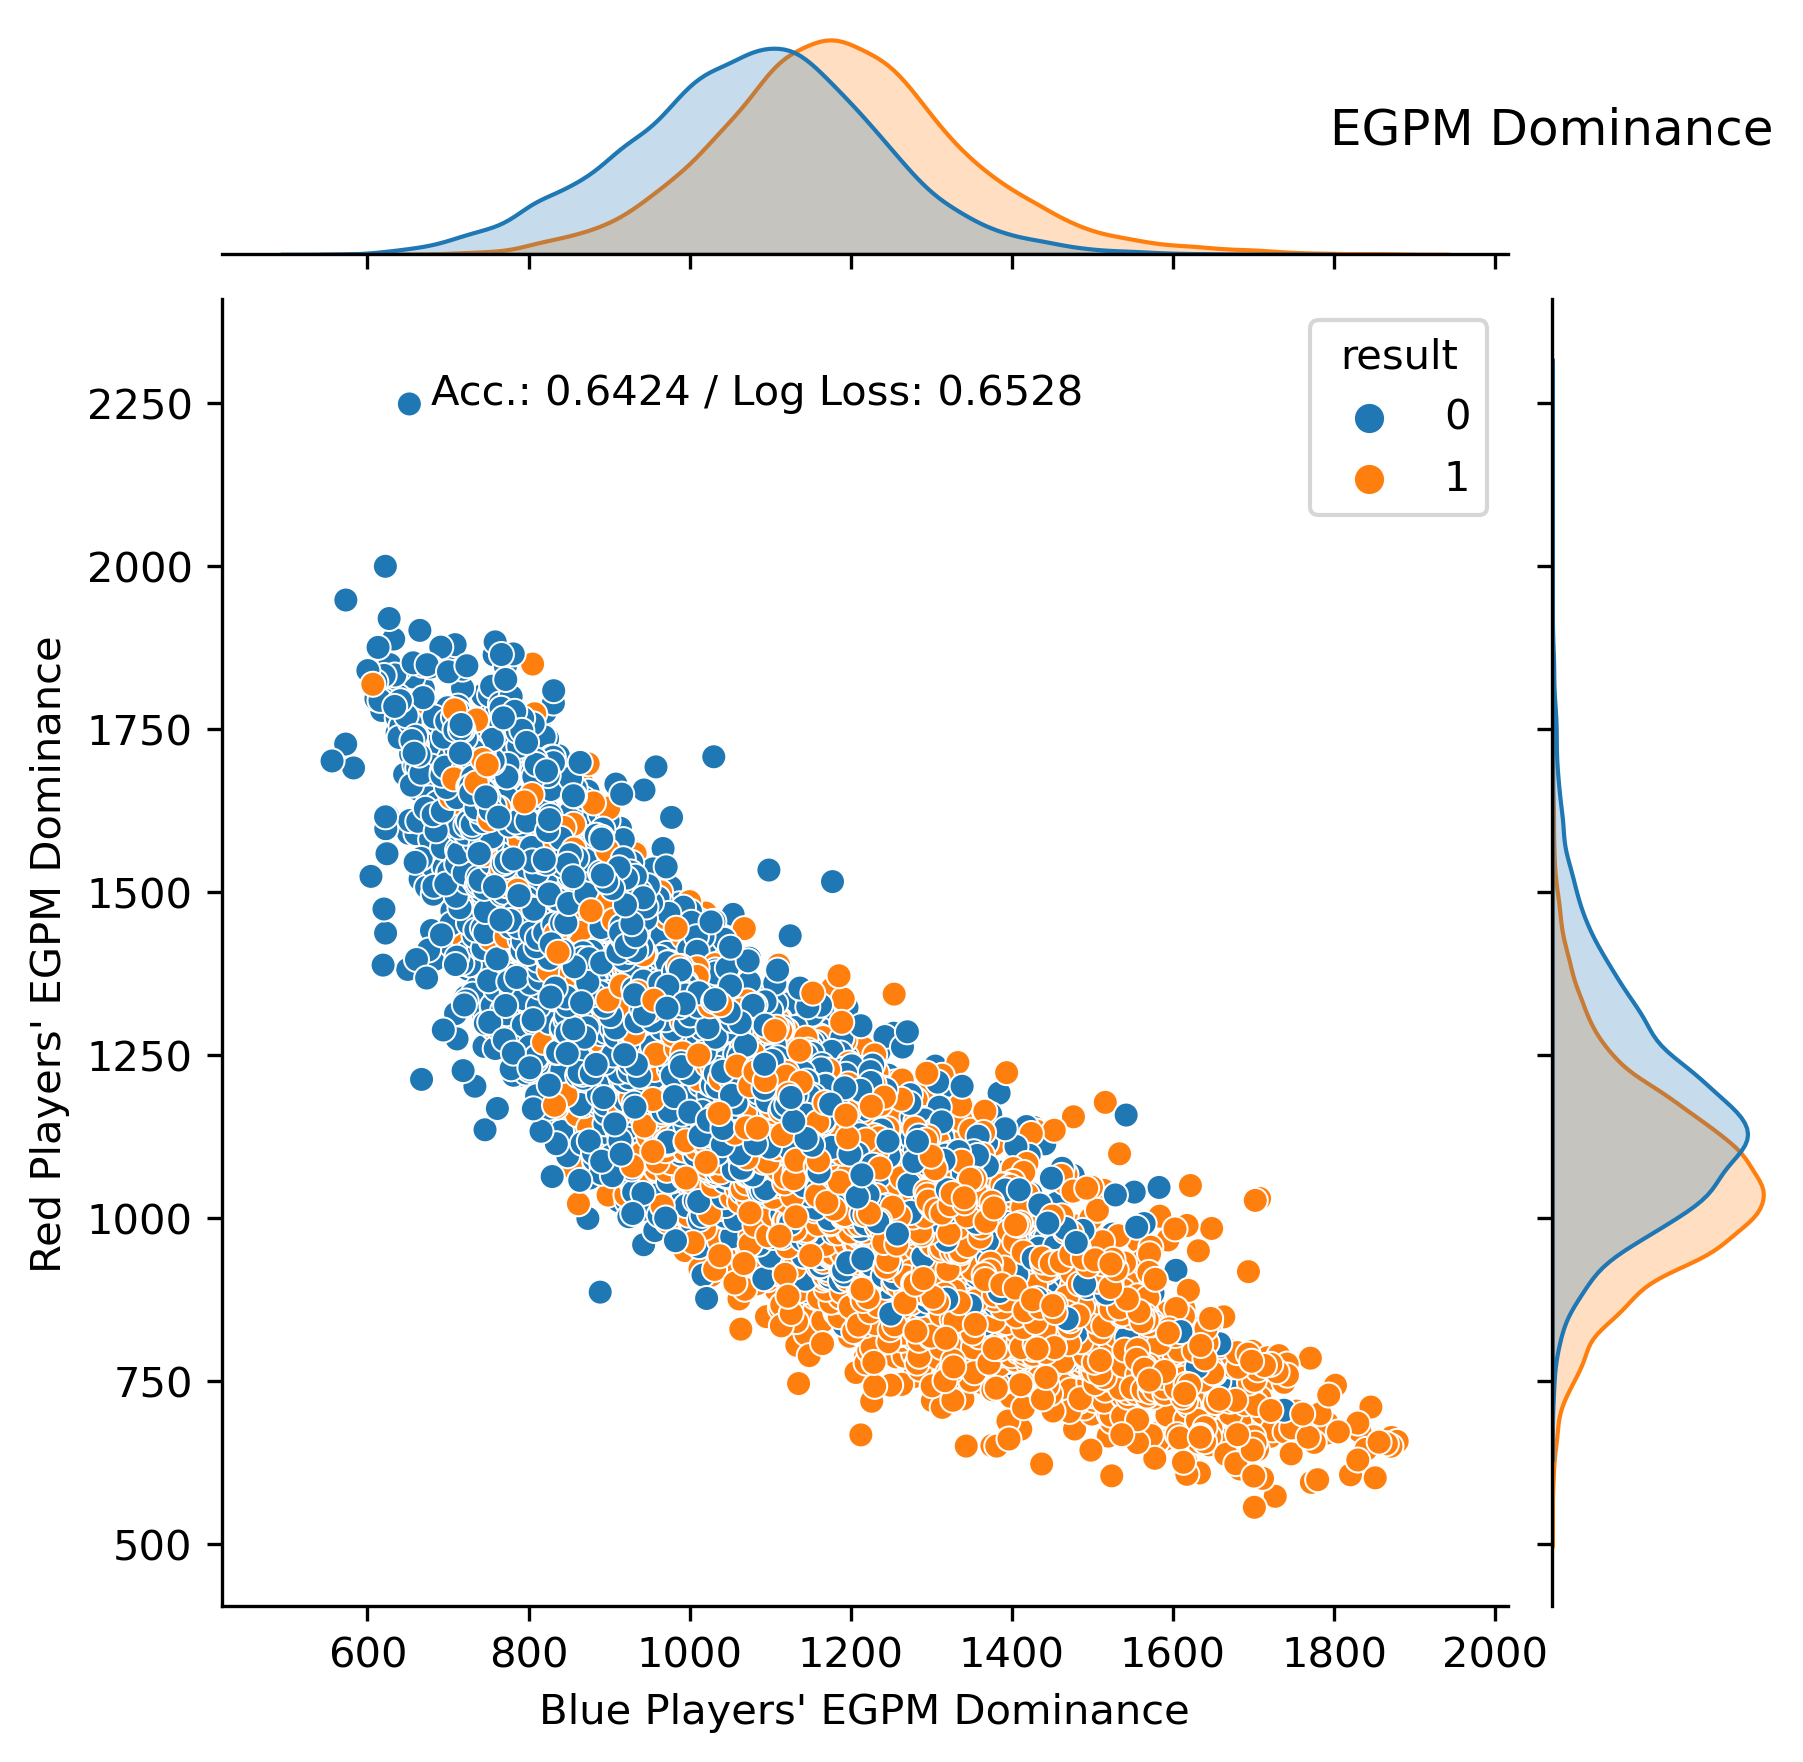
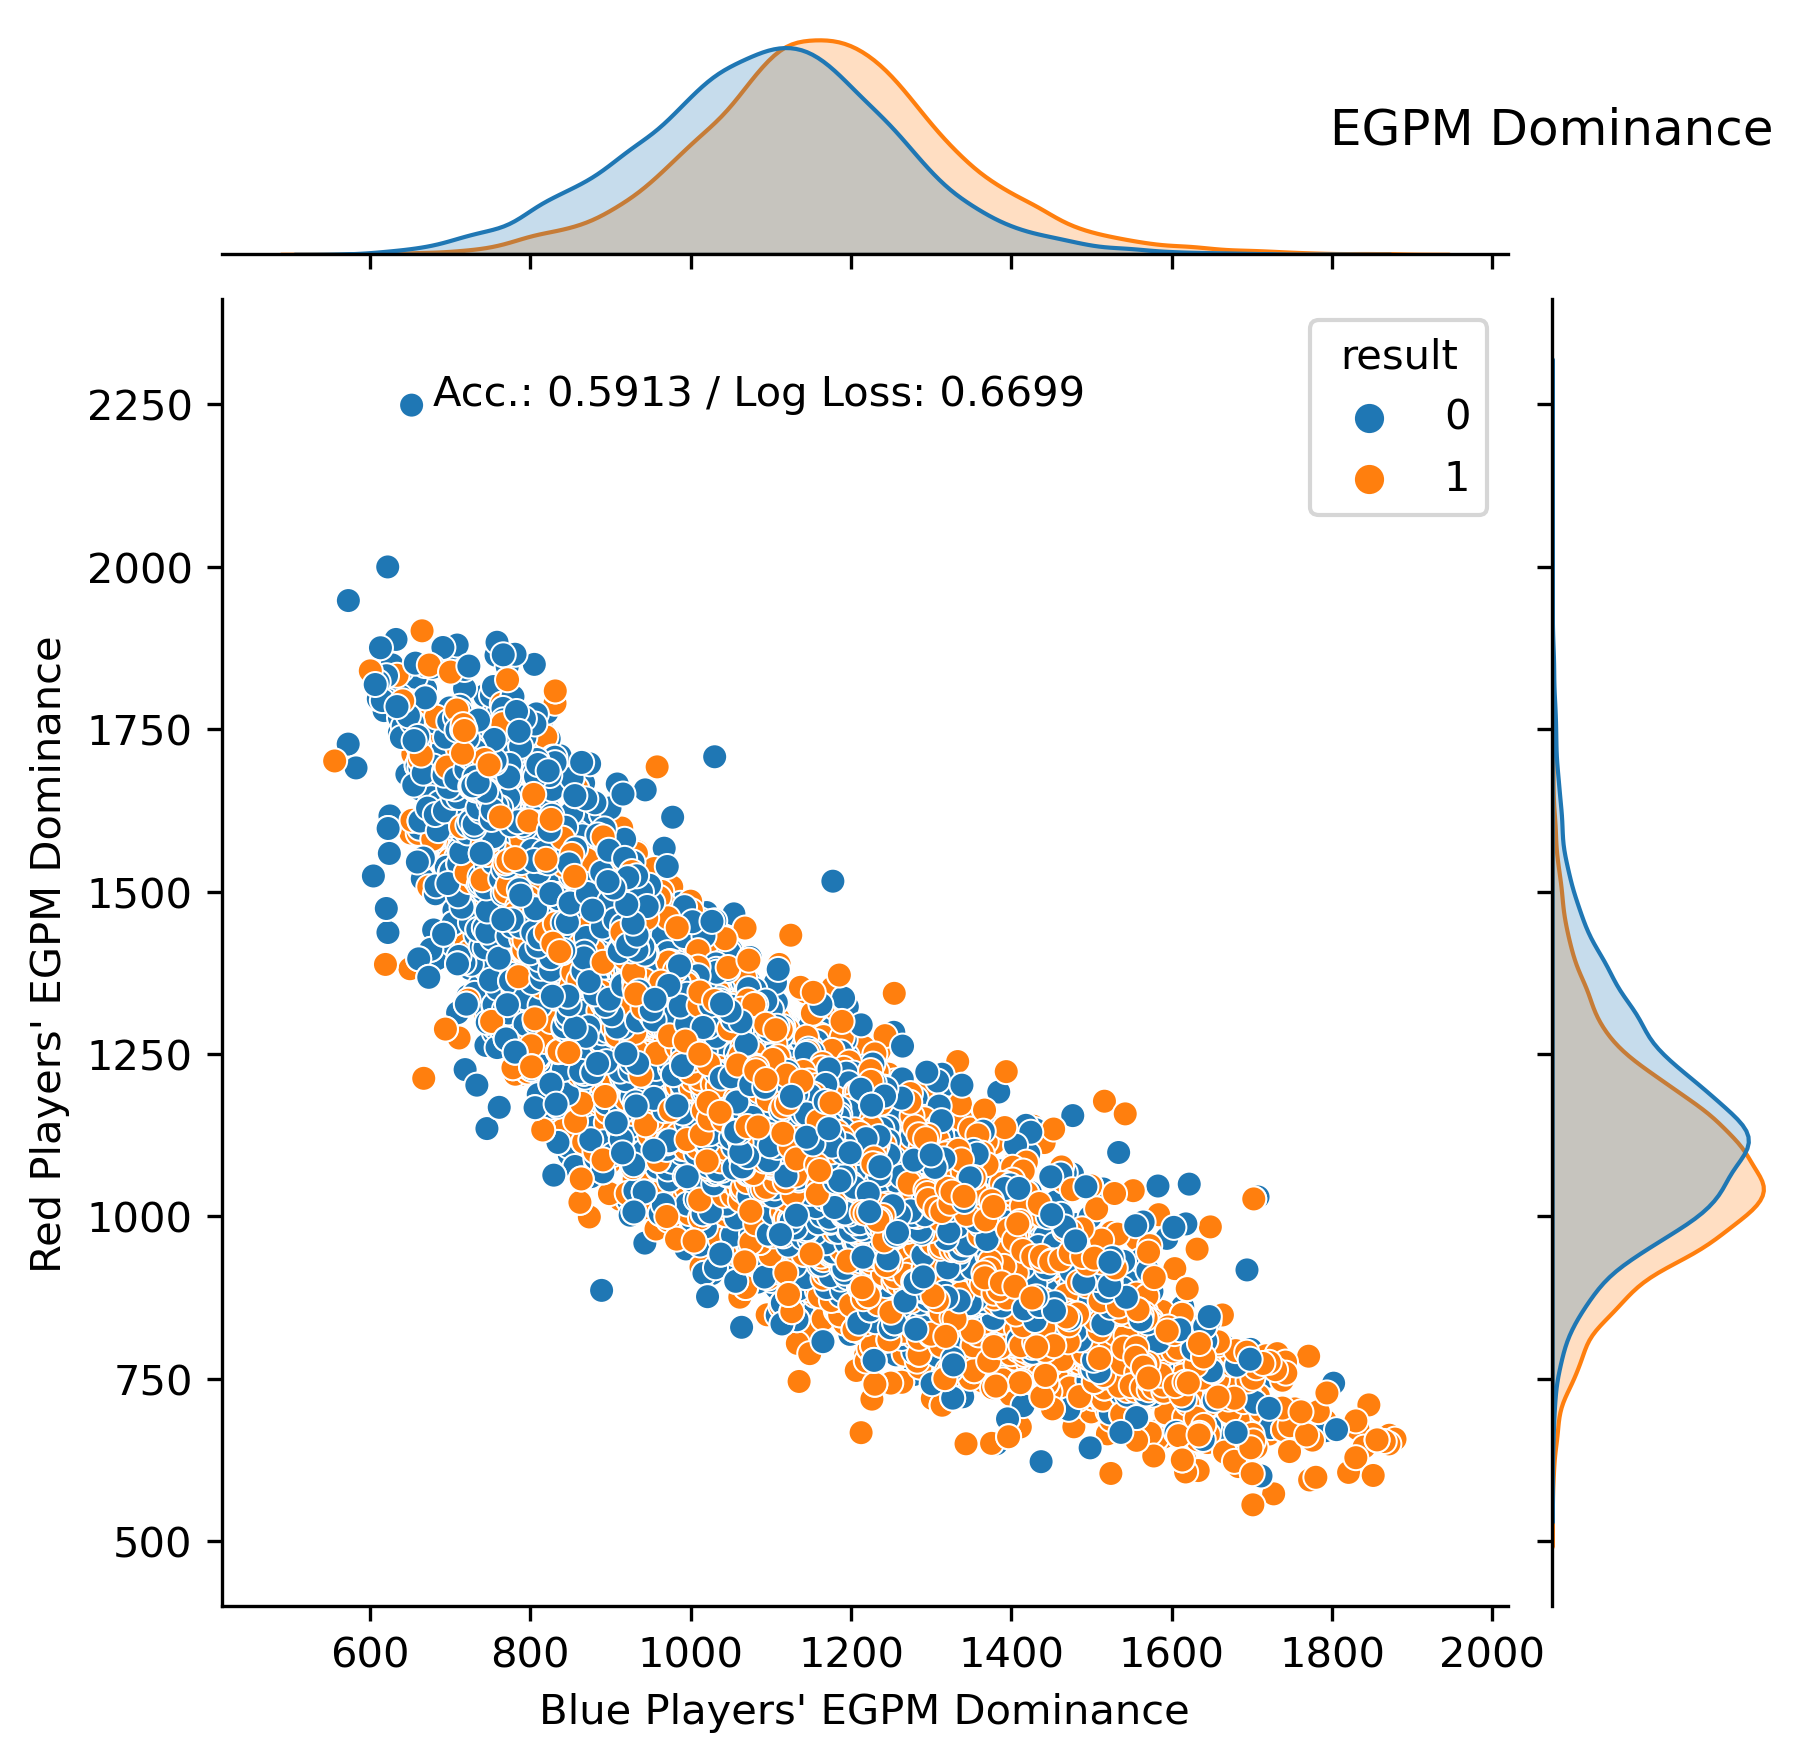
Backwards Propagation Bug Fix
There was an error in the computations of side EMA and the EGPM Domoinance model, wherein the current game was included in the moving average. This has been corrected in this code update.

diff --git a/src/lol_modeling.py b/src/lol_modeling.py
@@ -609,16 +609,17 @@ def ewm_model(df: pd.DataFrame, entity: str) -> pd.DataFrame:
     df['result'] = df['result'].astype(float)
 
     red_side = df[df['side'] == 'Red'].copy()
-    red_side['red_side_ema'] = (red_side
-                                .groupby(identity)['result']
-                                .transform(lambda x: x.ewm(halflife=5)
-                                           .mean()))
+    red_side['red_side_ema_before'] = (red_side.groupby(identity)['result']
+                                       .transform(lambda x: x.ewm(halflife=5).mean().shift().bfill()))
+    red_side['red_side_ema_after'] = (red_side.groupby(identity)['result']
+                                      .transform(lambda x: x.ewm(halflife=5).mean()))
 
     blue_side = df[df['side'] == 'Blue'].copy()
-    blue_side['blue_side_ema'] = (blue_side
-                                  .groupby(identity)['result']
-                                  .transform(lambda x: x.ewm(halflife=5)
-                                             .mean()))
+    blue_side['blue_side_ema_before'] = (blue_side.groupby(identity)['result']
+                                         .transform(lambda x: x.ewm(halflife=5).mean().shift().bfill()))
+    blue_side['blue_side_ema_after'] = (blue_side.groupby(identity)['result']
+                                        .transform(lambda x: x.ewm(halflife=5)
+                                                   .mean()))
 
     merged = pd.concat([blue_side, red_side], ignore_index=True)
     merged = merged.sort_values([identity, 'date']).reset_index(drop=True)
@@ -626,7 +627,8 @@ def ewm_model(df: pd.DataFrame, entity: str) -> pd.DataFrame:
     win_rates = (merged.groupby([identity], as_index=False)
                  .apply(lambda group: group.ffill())
                  .reset_index(drop=True))
-    win_rates[['blue_side_ema', 'red_side_ema']] = win_rates[['blue_side_ema', 'red_side_ema']].fillna(1)
+    columns = ['blue_side_ema_before', 'blue_side_ema_after', 'red_side_ema_before', 'red_side_ema_after']
+    win_rates[columns] = win_rates[columns].fillna(1)
     win_rates.sort_values(by=['date', 'league', 'gameid', 'result'], ascending=True, inplace=True)
 
     return win_rates
@@ -665,19 +667,23 @@ def egpm_model(data: pd.DataFrame, entity: str) -> pd.DataFrame:
     data['opp_egpm_dominance_ratio'] = (data['opponent_egpm'] /
                                         (data[mu] /
                                          data[opp_mu]))
-    data['egpm_dominance_ema'] = (data.groupby([identity])
-                                  ['egpm_dominance_ratio']
-                                  .transform(lambda x: x.ewm(halflife=9).mean()))
-    data['opp_egpm_dominance_ema'] = (data.groupby([identity])
-                                      ['opp_egpm_dominance_ratio']
-                                      .transform(lambda x: x.ewm(halflife=9).mean()))
+    data['egpm_dominance_ema_before'] = (data.groupby([identity])
+                                         ['egpm_dominance_ratio']
+                                         .transform(lambda x: x.ewm(halflife=9).mean().shift().bfill()))
+    data['egpm_dominance_ema_after'] = (data.groupby([identity])
+                                        ['egpm_dominance_ratio']
+                                        .transform(lambda x: x.ewm(halflife=9).mean()))
+    data['opp_egpm_dominance_ema_before'] = (data.groupby([identity])
+                                             ['opp_egpm_dominance_ratio']
+                                             .transform(lambda x: x.ewm(halflife=9).mean().shift().bfill()))
+    data['opp_egpm_dominance_ema_after'] = (data.groupby([identity])
+                                            ['opp_egpm_dominance_ratio']
+                                            .transform(lambda x: x.ewm(halflife=9).mean()))
 
-    data['egpm_dominance_expected_result'] = np.where(data['egpm_dominance_ema'] >=
-                                                      data['opp_egpm_dominance_ema'], 1, 0)
-    data['egpm_dominance_win_perc'] = (data['egpm_dominance_ema'] /
-                                       (data['egpm_dominance_ema'] +
-                                        data['opp_egpm_dominance_ema']))
-    data['egpm_dominance_diff'] = data['egpm_dominance_ema'] - data['opp_egpm_dominance_ema']
+    data['egpm_dominance_win_perc'] = (data['egpm_dominance_ema_before'] /
+                                       (data['egpm_dominance_ema_before'] +
+                                        data['opp_egpm_dominance_ema_before']))
+    data['egpm_dominance_diff'] = data['egpm_dominance_ema_before'] - data['opp_egpm_dominance_ema_before']
 
     return data
 

diff --git a/src/data_generator.py b/src/data_generator.py
@@ -75,8 +75,8 @@ def enrich_dataset(player_data: pd.DataFrame,
     flattened_teams = team_data.groupby('teamid').nth(-1).reset_index(drop=True)
     flattened_teams = flattened_teams[["date", "teamname",
                                        "team_elo_after", "trueskill_sum_mu",
-                                       "trueskill_sum_sigma", "egpm_dominance_ema",
-                                       "blue_side_ema", "red_side_ema"]]
+                                       "trueskill_sum_sigma", "egpm_dominance_ema_after",
+                                       "blue_side_ema_after", "red_side_ema_after"]]
     flattened_teams = flattened_teams.rename(columns={'team_elo_after': 'team_elo'})
     flattened_teams.to_csv(filepath.joinpath('data', 'processed', 'flattened_teams.csv'), index=False)
 
@@ -84,8 +84,8 @@ def enrich_dataset(player_data: pd.DataFrame,
     flattened_players = player_data.groupby('playerid').nth(-1).reset_index(drop=True)
     flattened_players = flattened_players[["date", "teamname", "position",
                                            "playername", "player_elo_after", "trueskill_mu",
-                                           "trueskill_sigma", "egpm_dominance_ema",
-                                           "blue_side_ema", "red_side_ema"]]
+                                           "trueskill_sigma", "egpm_dominance_ema_after",
+                                           "blue_side_ema_after", "red_side_ema_after"]]
     flattened_players = flattened_players.rename(columns={'player_elo_after': 'player_elo'})
     flattened_players.to_csv(filepath.joinpath('data', 'processed', 'flattened_players.csv'), index=False)
 

diff --git a/src/model_validator.py b/src/model_validator.py
@@ -98,19 +98,21 @@ def validate_trueskill(teams: pd.DataFrame, directory: Path):
 
 def validate_egpm_dominance(teams: pd.DataFrame, directory: Path):
     # Data Preparation
+    teams['egpm_dominance_win_perc'] = teams['egpm_dominance_win_perc'].fillna(0.5)
+    teams['egpm_dominance_expected_result'] = np.where(teams['egpm_dominance_win_perc'] >= 0.5, 1, 0)
     teams['result'] = teams.result.astype('int32')
 
     # Generate Graph
     grf = sns.jointplot(data=teams,
-                        x='egpm_dominance_ema',
-                        y='opp_egpm_dominance_ema',
+                        x='egpm_dominance_ema_before',
+                        y='opp_egpm_dominance_ema_before',
                         hue='result')
 
     # Label Accuracy and Log Loss
     correct = len(teams[teams['egpm_dominance_expected_result'] == teams['result']]) / len(teams)
     logloss = log_loss(teams['result'], teams['egpm_dominance_win_perc'], labels=[0, 1])
-    grf.ax_joint.text(teams['egpm_dominance_ema'].mean() - (teams['egpm_dominance_ema'].mean() * 0.40),
-                      teams['opp_egpm_dominance_ema'].max(),
+    grf.ax_joint.text(teams['egpm_dominance_ema_before'].mean() - (teams['egpm_dominance_ema_before'].mean() * 0.40),
+                      teams['opp_egpm_dominance_ema_before'].max(),
                       f'Acc.: {correct:.4f} / Log Loss: {logloss:.4f}')
 
     # Format and Export

diff --git a/src/team.py b/src/team.py
@@ -81,12 +81,13 @@ class Team:
             for d in diff:
                 substitute = {'date': '1/1/2022 23:59', 'teamname': 'Null', 'position': 'Null',
                               'playername': d, 'player_elo': 1100, 'trueskill_mu': 21, 'trueskill_sigma': 8,
-                              'egpm_dominance_ema': 198, 'blue_side_ema': 0.4, 'red_side_ema': 0.4}
+                              'egpm_dominance_ema_after': 198, 'blue_side_ema_after': 0.4, 'red_side_ema_after': 0.4}
                 data = data.append(substitute, ignore_index=True)
             self.warning += f"\n WARNING: {str(diff)} not found in database. Substitute values were used."
 
         self.player_elo = data.player_elo.mean()
         self.player_trueskill_mu = data.trueskill_mu.sum()
         self.player_trueskill_sigma = data.trueskill_sigma.sum()
-        self.egpm_dominance = data.egpm_dominance_ema.sum()
-        self.side_win_rate = data.blue_side_ema.mean() if self.side.lower() == "blue" else data.red_side_ema.mean()
+        self.egpm_dominance = data.egpm_dominance_ema_after.sum()
+        self.side_win_rate = data.blue_side_ema_after.mean() if self.side.lower() == "blue" \
+            else data.red_side_ema_after.mean()

diff --git a/README.md b/README.md
@@ -81,9 +81,11 @@ TrueSkill is calculated on a player-basis for the past two years. TrueSkill is m
 
 This model is one that I developed myself, and is slightly more difficult to explain. But the general idea is that gold is the most individually significant stat to monitor in League of Legends as an esport. This model looks at a team's gold lead over their opponent, and uses that as a proxy to measure the "strength of the win". EGPM stands for "Earned Gold Per Minute" and is a stat measured in the Oracle's Elixir data. The intent is to monitor a team's Earned Gold Per Minute over their opponent, relative to each team's average EGPM value. The way this is set up is that if the 1st place team in the league loses to the 10th place team in the league, where the 10th place team has a much higher EGPM statistic, the 1st place team is penalized significantly more than if they lost in a close game to the 2nd place team in the league. This is similar to elo, but the EGPM statistic is used to quantify the "strength of the win". This has been the best performing model, but again may struggle with player substitutions. 
 
-**Most Recent Tested Accuracy: 64.24%, Log Loss: 65.28% - on Dec 23, 2021**
+**Most Recent Tested Accuracy: 59.13%, Log Loss: 66.99% - on Dec 23, 2021**
 
 ### How It Gets Ensembled
 
 Each of the four models' predictions is output in the document, so you can see the individual performance. This output also comes with an average that's calculated by weighting each model's accuracy into an average of all four model probability scores. A standard deviation value is also computed, so you get the ensemble model's weighted average, and standard deviation, alongside each of the four individual model probability scores as well. 
+
+**Ensemble Tested Accuracy: 63.40, Log Loss: 63.83% - on Dec 23, 2021**
  
